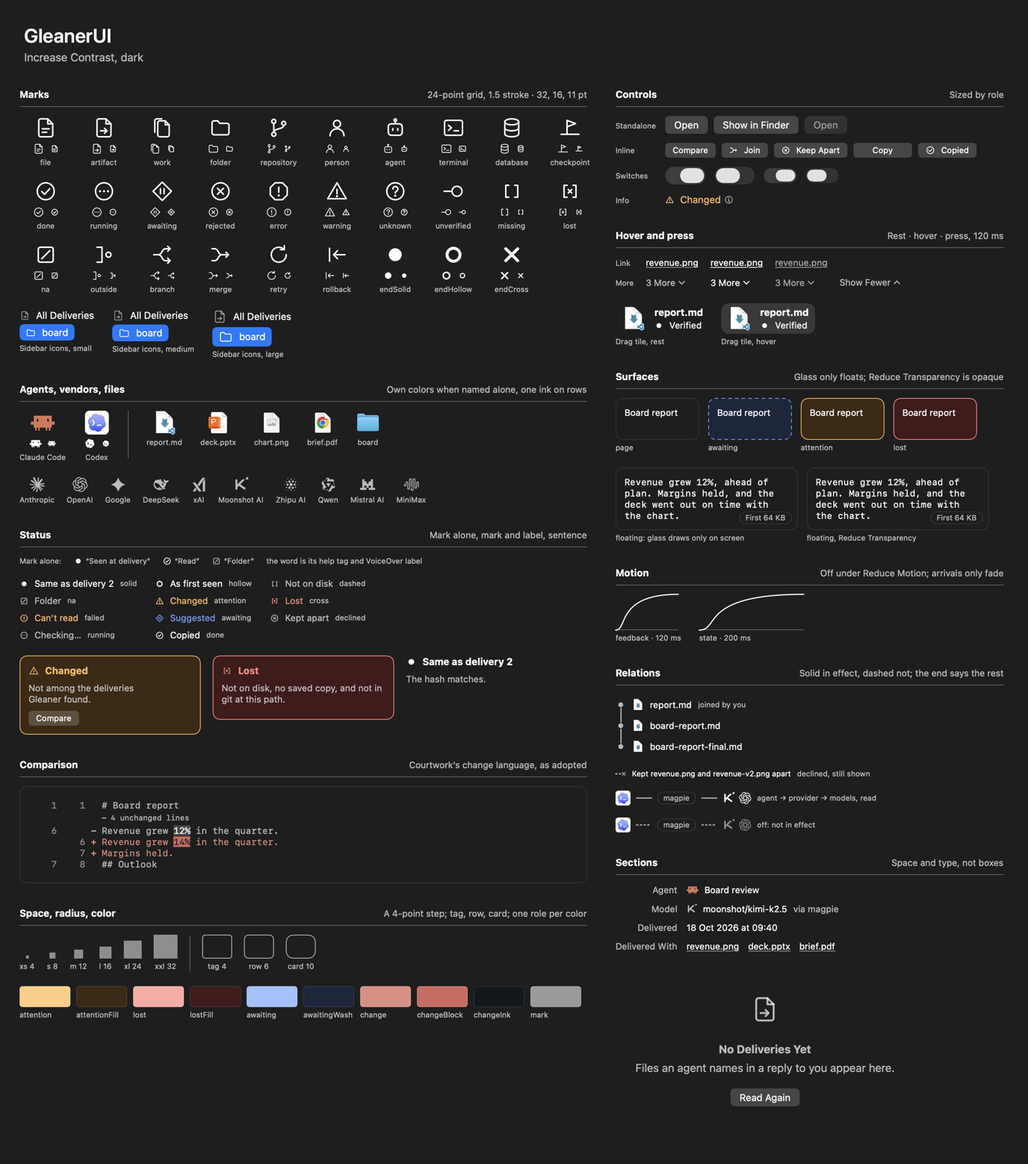
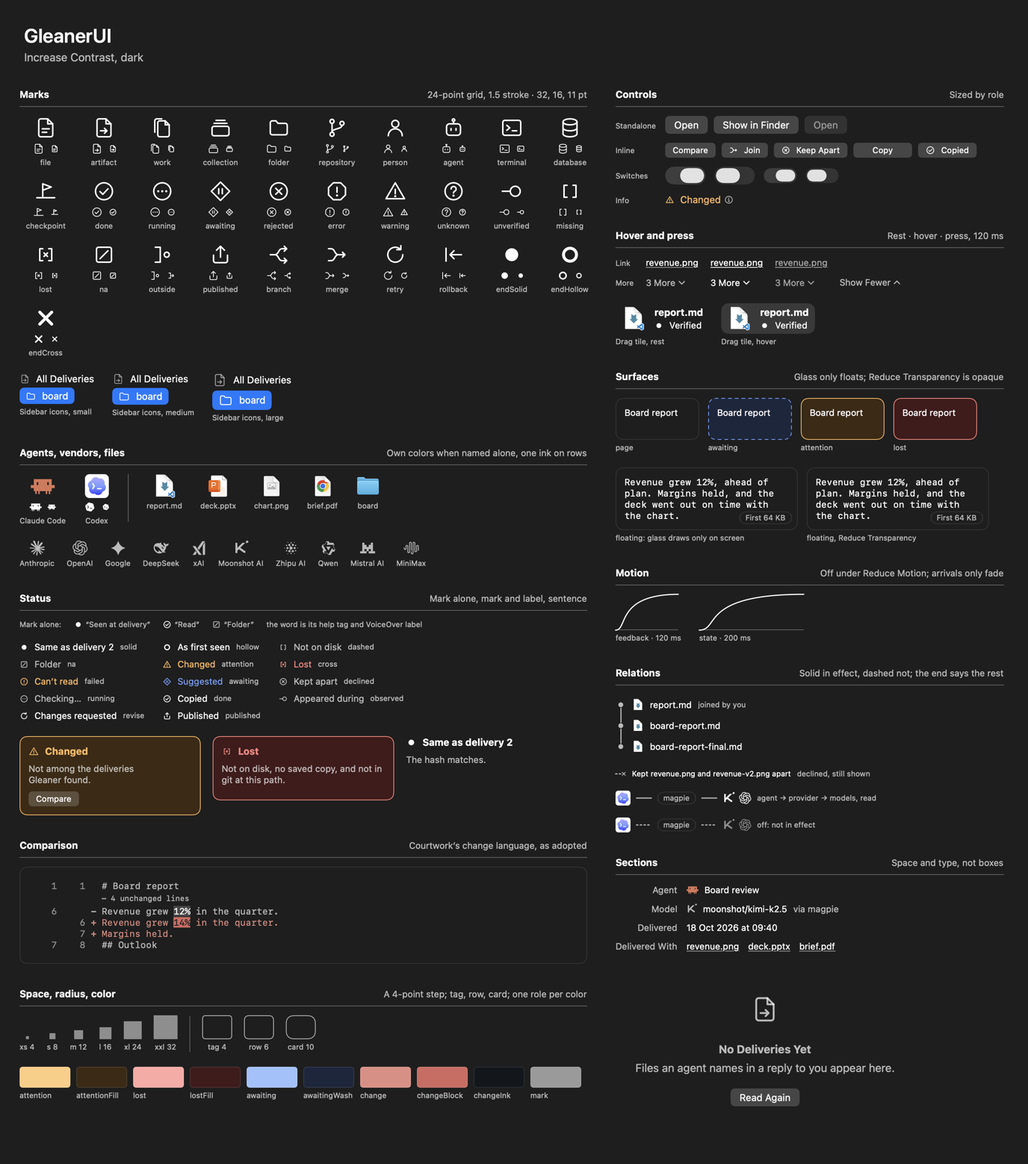
Document the review window: review.md as built, SPEC 5.5, marks, gallery
review.md gains The window, as built: the sidebar, naming in place,
dropping and choosing several rows, a collection's list and review page,
its forms and marks, A17 on the page, a work's Review section, To Review,
Observed, kept files' words, what the tour showed and what changed, and
what still needs a person at the window. SPEC 5.5 says how review is
shown; components.md and window-polish.md count the new marks, and the
gallery sheets are drawn again. The changelog, both READMEs, the design
index and capture.md's layer 3 follow.

diff --git a/docs/design/review.md b/docs/design/review.md
@@ -140,10 +140,83 @@ Built on `feat/review`, 2026-10-19. [SPEC §5.5](../SPEC.md) is the contract. Wh
 - **Undo All Corrections** removes units and kept files with the other corrections, and leaves verdicts and published marks, which judge bytes, not how the library is organized.
 - **A work of several files** keeps a verdict made on bytes any of its files had. Files the person hasn't joined share no verdict, even with the same bytes (§5.2).
 - **Reading.** The model takes the size, dates and inode of each work in a unit or with a verdict when it organizes the library, and remembers the bytes read this session, on select or by a verdict, while the file is still as read. To Review and each work's states draw from these and read nothing.
-- **The window** is the next layer: nothing here is listed or drawn yet, though Sources › Corrections words every new decision.
+- **The window** came next: [The window, as built](#the-window-as-built).
 
 Checked: `swift test`.
 - `WorkUnitTests`: nesting one level, natural order, membership by the latest decision and undo back to the one before, a work of several files, a work from another project moved with it and out again, rename, delete and undo, taking back a made unit, Undo All, a removed project, a unit following its project shown inside another, another connection to the library.
 - `KeepTests`: a kept file's one revision as observed and undone back to a candidate; its first read while as observed, at delivery and first seen later, and not when changed since; adding an observed file to a unit; a reply naming it later; a reread and a relaunch; no bytes read by keeping.
 - `ReviewTests`: a verdict on the bytes read; a rewrite, a rollback to approved bytes, a change of dates alone, a copy keeping size and dates (A16, A18); not as shown, gone, a folder and unreadable (A17, A20); history and undo; a work of several files; the four states as a matrix (A22); To Review's contents and grouping; no bytes read but for a verdict; another connection, a reread and Undo All.
 - `ReviewingTests`: the model's decisions and their words in Sources › Corrections, verdicts and To Review through a relaunch and a selection, a file changed since shown, and every decision through a reread and a relaunch.
+
+## The window, as built
+
+Built on `feat/review`, 2026-10-19, over the core. [SPEC §5.5](../SPEC.md) gains how it is shown. Where the window settles what this chapter left open, or departs from it:
+
+**Sidebar**
+- **To Review** sits under All Deliveries, counted as Mail counts unread mail.
+- **A project with collections** opens on them by disclosure, and each collection on those inside it. A collection's badge counts its works and those inside it.
+- **New Collection** is named in place, in the sidebar, as Finder names a new folder: Return or leaving the field keeps the name, Escape and an empty name make nothing. It is in a project's menu, in a collection's (inside it; beside it for one already inside another, since collections nest one level deep), and in the File menu (⇧⌘N). Made for rows the person chose, it takes them; made for nothing, it opens.
+- **Dropping rows.** A row carries its work, for a collection, as a type only Gleaner reads (`app.gleaner.work`, declared by the app bundle), beside what it hands another app. A row with nothing to hand over now starts a drag too: another app is offered nothing, so no drop there fails. Dragging one of several chosen rows brings all of them, as Finder does.
+
+**Choosing several.** Lists take ⌘- and ⇧-clicks. The detail then says how many, with Add to Collection and Remove from Collection; Open, Quick Look and ⌘C act on the one shown.
+
+**A collection's content column**
+- **Its head** is a row of its own, naming it, its counts, what waits, and where it is (the collection it is inside, its project). The head's row shows the review page; so does a row of a collection inside it, while the window stays where it is. A work's row shows the work's detail.
+- **Keys.** Return opens a collection chosen inside, and Delete takes the chosen works out.
+- **Empty**, it offers Add Works…, the project's works in no collection.
+
+**The review page**
+- **What it shows.** The collection's own works. The collections inside it are rows at the top, each showing its own page, so Review All acts only on what the page drew.
+- **Review All** gives each work drawn a verdict on the bytes there now: those already given that verdict on these bytes are skipped, as are folders and files gone. Other Files count once opened.
+- **The forms**, all the platform's:
+  - video: AVKit's player, its floating controls, at its own aspect up to 420 points tall;
+  - audio: the same player with its inline controls, as a row;
+  - images: ImageIO, at their own aspects, 220 points tall, side by side and wrapping; AppKit reads what ImageIO doesn't (SVG);
+  - Markdown and text: as the preview pane draws them, from the file; anything else a person opens, Quick Look;
+  - models, builds and folders: the file's own icon.
+- **Same stem.** The file drawn is the first a person looks at: a video before an image, an image before a document, a document before audio, else the first in list order. The others are named beside it, each with its own states and actions, and audio beside it plays in its own row. A file a program reads goes under Other Files even when it shares the stem (`ep01.inputs.json`): the page is for looking, and Other Files is where the design puts what a program reads.
+- **Marks.** Generated is the agent's mark for a reply or a folder, the observed mark for a kept file. On this Mac shows nothing while the file is there. Reviewed is the check, the open arrow or the crossed circle alone; "To review" in the accent, and "May have changed since review" or "Changed since review" in amber. Published is the tray alone, with words only when its bytes may have changed or did. Each has its sentence in the help tag, and all four are read to VoiceOver with the name.
+- **As shown (A17).** Each item takes its file's size, dates and inode as it is drawn, and a verdict binds only to the file still so. A refusal is said at the top of the page, with Look Again, which draws every item again from disk.
+
+**A work's detail** has its Review section after Information:
+- its collection, with Remove, or Add to Collection;
+- Reviewed, once it is in a collection or has a verdict, and Published, once it has a mark: a state as it should be says nothing;
+- every verdict and mark on any of its files, newest first, each with its file, time, hash, note or place, and Undo.
+
+Review and Mark Published act only while the detail shows the file's current bytes: the newest delivery, still on disk, or the current file chosen to hand over. A verdict binds to the bytes shown.
+
+**To Review** lists what waits by collection, named with the one it is inside and its project, then by project; each name leads there. A work reviewed there stays shown until the person moves on, as Mail keeps a message read in Unread.
+
+**Observed** sits after a project's folders, in a project something was handed over in: one whose sessions were only observed isn't listed yet, as the core lists projects. Each file is under the session it was last observed during (a file two sessions observed, under the newer), folded as Listing folds them; a session opens where works open, so it is closed in a repository. A row says Appeared or Changed and its folder: the session is said once, by its group, and each session's full sentence is in the help tag. It has Keep, and a menu with Add to Collection and Not From This Session; a folded row keeps or adds all of its files.
+
+**A kept file** is named as kept wherever a delivery would be named: "Kept file", "Kept by you, observed during …", "Seen as observed", "Kept, not read". No label calls it a delivery, or listed with a folder.
+
+**Corrections** lists an observed file kept to go in a collection as one line: "Kept and added cover.png to Episode 3, observed during Series covers". Collection decisions carry the collection's mark there.
+
+**Undo and VoiceOver.** Every decision goes on Edit › Undo under its name, and is announced in the words Corrections lists it by. A collection made for chosen rows is two steps on Edit › Undo: the adding, then the making.
+
+**Checked**
+- **`swift test`:** 343 tests pass; the gallery and the three tours run only with a folder for their pictures.
+  - `WordingTests` says each new state as itself and never as another: the Reviewed states in a collection and out of one, the Published states, what waits, On this Mac with unreadable never gone (A20), how a file came, a kept revision never a delivery, collections' counts and names, and a refused verdict's reasons.
+  - `ReviewingTests` adds: a collection as a place with its page, its works and those inside it, deleted while shown; naming in place, with what was chosen; several rows chosen, added and dragged together; Observed by session, detached and kept; what waits and where each work is, To Review keeping the work shown, and a file gone after its verdict (A22).
+- **The tour.** `GLEANER_TOUR=<folder> swift test --filter TourTests/walkTheReviewOfASeries` writes real videos, builds a synthetic series of three episodes and a compilation (`scripts/acceptance-home.py <home> review`, then `review-revise`), and draws fifteen pictures:
+  - the outline, whole, with Observed;
+  - the series' list and page, naming a collection in place, two works chosen;
+  - episode 1's page in the window and whole, before and after its verdicts;
+  - To Review after the recut, and with the recut chosen;
+  - the recut's detail and the script's, with their Review sections and history;
+  - the note sheet, Corrections, and episode 2's page in dark.
+
+  **What the pictures showed, and what changed:**
+  - Corrections said a keep and an add made together twice, file by file; they are now one line.
+  - Every work's detail said None, Not reviewed and Not published; nothing is said now until something is decided.
+  - An observed file's row ran its other sessions together until they were cut off; they moved to its help tag.
+  - A collection chosen in a list wasn't selected in it: the list's selection now names the collection whose page is shown.
+- **Not checked:**
+  - a video's frames, and the players' glass: drawn off screen, a video is black and AVKit's glass capsule is white;
+  - a real drag onto the sidebar, and its highlight;
+  - naming in place from the keyboard;
+  - VoiceOver listening, and full keyboard access through a page;
+  - Increase Contrast and large text.
+
+  These need a person at the window.

diff --git a/CHANGELOG.md b/CHANGELOG.md
@@ -43,7 +43,7 @@ The first release: a macOS 15 app that lists the files Claude Code and Codex nam
 
 ### Hand off
 
-- Drags the file at the top of the detail, or a list row, as a copy whose hash was checked after copying; ⌘C copies it as a file and ⌘O opens it. A row hands over the version the detail would, a delivered folder's row drags the folder as a copy, and a row with nothing to hand over starts no drag. Copies of one version prepared at the same time never remove each other. The tile, ⌘C, Open and Quick Look use a prepared copy only while it is the very file Gleaner hashed, and make it again when another app wrote to, replaced or removed it; the text preview shows the text that was verified.
+- Drags the file at the top of the detail, or a list row, as a copy whose hash was checked after copying; ⌘C copies it as a file and ⌘O opens it. A row hands over the version the detail would, a delivered folder's row drags the folder as a copy, and a row with nothing to hand over offers another app nothing (it still drops on a collection). Copies of one version prepared at the same time never remove each other. The tile, ⌘C, Open and Quick Look use a prepared copy only while it is the very file Gleaner hashed, and make it again when another app wrote to, replaced or removed it; the text preview shows the text that was verified.
 - Hands over a delivered file by its bytes even when a folder now stands at its path, and a delivered folder only while it is still one.
 - Falls back to the saved copy when the file on disk has changed, and labels the current file "not a found delivery" when no delivered version is left.
 - Says why a version can't be handed over: never seen, never read, a folder, too large to have been saved, a save that failed, or a saved copy no longer in Gleaner's store. Offers only actions that exist, and Check Again wherever it advises checking again.
@@ -56,7 +56,7 @@ The first release: a macOS 15 app that lists the files Claude Code and Codex nam
 - Each conversation read now gets a span, when it was working: from each request to the last reply answering it, so the days between a reply and a conversation resumed later aren't in it. The adapters now give each reply's request time, from the request's record. A conversation also gets a workspace: the git checkout of each folder it worked in, else the folder. A workspace is walked when its conversation's span moves, by names, sizes, dates and file identities only, never contents. The home folder and its Library (but for iCloud Drive and cloud storage), system folders, hidden folders, the agents' logs, Gleaner's own library, dependency caches and folders marked as caches with `CACHEDIR.TAG` are skipped, a skipped or gone folder is named in Sources with why, links and other volumes aren't followed, and a walk stops after 100,000 entries, which Sources reports until the conversation is walked again. A walk cut off by a quit, or whose findings couldn't be written, is made again next run.
 - A file whose creation or modification date falls in a span is recorded as having appeared or changed during that conversation, the first time Gleaner sees it, and never rewritten; another conversation's observation of it is added beside it. A file whose dates were set after its stretch ended, a copy that kept them, say, isn't counted. It shows when the file appeared or changed, not who made it, and no file type or output folder is left out.
 - Observed files are candidates kept beside the deliveries, never deliveries: a delivered file keeps its delivery, and its observation sits next to it, under the name the reply gave it even when the disk spells it in another case. Two corrections join the others, with Undo: a file is not from a conversation, and a file goes with a work, without becoming one of its versions.
-- The model can order a project's files (handed over before observed, what a person opens before what a program reads, newest first), fold a folder crowded with one kind into one row with its count, and show files that share a stem together, claiming nothing. The window lists none of this yet.
+- The model can order a project's files (handed over before observed, what a person opens before what a program reads, newest first), fold a folder crowded with one kind into one row with its count, and show files that share a stem together, claiming nothing. A project's outline lists its works so, and what was observed under Observed (see Review).
 - The extractor version moves to 15: every log is read once more, and each conversation's workspace observed as the disk is now.
 
 ### Hand over a folder's files
@@ -69,13 +69,16 @@ The first release: a macOS 15 app that lists the files Claude Code and Codex nam
 - A project's outline lists a folder's files under their folders, a crowded folder's files of one kind folded into one row; files a reply named never fold. Search finds a folder's file by its name and folder; the reply's words find the folder. A file observed during a conversation and handed over in a folder keeps its observation beside it, and corrections apply to it as to any work.
 - Folders already in a library are listed on the next read; no log is read again. The library loads off the main thread at launch, and a file's first read updates that file alone, in the list and outline already shown: with 20,000 files, a first selection no longer stalls the window for over a second.
 
-### Review, in the model
+### Review
 
 - Collections (work units): made in a project, one inside another one level deep, each work in at most one. Renaming, deleting, adding a work and taking one out are corrections, kept through rereads and relaunches, listed in Sources → Corrections and undone one by one, each back to the decision before it. Deleting a collection deletes those inside it and returns their works to the project; undone, they are back. A work added from another project moves with it.
 - Keep: a file observed during a conversation becomes a work whose one revision is kept by you, observed during it, listed by its size and dates and read when you act on it. Adding an observed file to a collection keeps it. Undone, it is a candidate again.
 - Verdicts (approved, changes requested, rejected, with a note) and published marks (with where) are made on the bytes there then: making one reads the file and records its hash with its size, dates and inode. A file touched, rewritten or replaced since may have changed until it is read, and then has changed, or hasn't; bytes that match a verdict's hash keep it, at any revision; a file gone keeps its verdict as made. A file changed since you were shown it isn't judged. Every verdict stays in the history, each can be undone, and Undo All Corrections leaves them. No state completes another.
 - To Review holds the works in collections with no verdict on their bytes and the works anywhere whose verdict is on other bytes, by collection. It and each work's states come from sizes and dates, never by reading bytes.
-- The window lists none of this yet.
+- The sidebar has To Review, with its count, and each project's collections under it. A new collection is named in place; New Collection is in a project's and a collection's menus and the File menu (⇧⌘N), with Add to Collection, Remove from Collection, Rename and Delete. Rows dropped on a collection go in it, and rows can be chosen several at once.
+- A collection lists the collections inside it, each with its first image as a poster and what waits, then its works. Its review page shows each work in place: a video plays (AVKit), audio plays in a row, images stand side by side at their own aspects, documents render as the preview pane renders them, and what a program reads is under Other Files, closed; files sharing a stem stand together. Each carries its four states as marks, Review (Approve, Request Changes…, Reject…, with a note), Mark Published… and More; Review All acts on what the page shows. A verdict binds only to a file still as it was drawn; otherwise the page says to look again.
+- To Review lists what waits by collection. A work's detail has a Review section: its collection, its verdict and published mark, and its history with Undo. A project's outline lists what sessions were observed doing and no reply handed over under Observed, by session, with Keep, Add to Collection and Not From This Session. A kept file is named as kept, never as a delivery.
+- Every decision is on Edit › Undo and announced to VoiceOver in the words Sources → Corrections lists it by. Two marks are new: a collection's, and published.
 
 ### Keep data local
 

diff --git a/README.md b/README.md
@@ -20,7 +20,7 @@ Gleaner 0.1.0 runs on macOS 15 or later. It is an early release: which files cou
 
 Type what you remember: words from your request, the reply, the file name, or the project. A result matches only when every word appears in one delivery, so words from two different conversations never combine into a match. The result opens on the newest delivery whose own words (your request, the reply, the session title) matched, or on the newest delivery when only the file name or project did, and shows that delivery's date. When you change the search, a result you had switched to another delivery goes back to the one that matched. A file handed over in a folder is found by its name, its folder and its project; the reply's words find the folder.
 
-The sidebar lists All Deliveries, every project, and Sources. A project is the git repository that holds the file, with every worktree folded into it wherever the worktree is kept; outside git it is the folder the agent worked in, marked with a folder instead of a repository's branches. Two projects with the same name also show their parent folder, and a file in a worktree names that worktree. Searching inside a project searches that project. A menu above the results narrows them by kind: Documents, Images, Video & Audio, Web Pages, Code, Data, 3D & CAD, Builds & Archives, Folders, and Other.
+The sidebar lists All Deliveries, To Review, every project with its collections, and Sources. A project is the git repository that holds the file, with every worktree folded into it wherever the worktree is kept; outside git it is the folder the agent worked in, marked with a folder instead of a repository's branches. Two projects with the same name also show their parent folder, and a file in a worktree names that worktree. Searching inside a project searches that project. A menu above the results narrows them by kind: Documents, Images, Video & Audio, Web Pages, Code, Data, 3D & CAD, Builds & Archives, Folders, and Other.
 
 The detail pane is laid out as Finder's preview pane: the file itself, with its own icon, to drag and open, a line saying exactly which bytes it carries and whether Gleaner verified them, then the preview, then **Information**: your request, the reply that delivered the file, the agent (by its own mark) and conversation, when, what is on disk now, and where. Markdown is rendered in place; most other formats use Quick Look. Under **Versions**, each time an agent delivered the same path is one line; picking a line switches the file, its preview and the hand-off together. A state that is as it should be shows only its mark; one that needs a look says so in a word or two, with the full sentence behind ⓘ. **More Info** keeps the path, hashes and session log. **Compare** shows what changed between two deliveries, or between a delivery and the file on disk now: a line diff for text, side by side for images, size and hash for anything else. When two versions differ only in line endings or the final newline, Compare says so.
 
@@ -31,6 +31,14 @@ A project opens on its outline: what it is and why, the works delivered last, th
 **Project**, in a work's detail, says why the work is in its project (the repository it is in, the repository its agent worked in, or the folder outside git), and offers **Move to Project…**, to another project or a new one of your own, and **Join With Another File…**. A derived project can be shown inside another from its menu in the sidebar. These decisions change only how Gleaner shows the library, never a file, a delivery or a status; reading the logs again keeps them. **Sources → Corrections** lists each one with Undo, and Undo All.
 
 **Copy Resume Command**, beside the conversation, copies `claude --resume <id>` or `codex resume <id>`, with a `cd` to the folder the conversation started in, to continue it in Terminal. It is offered while the conversation's log and that folder are there; otherwise it says why it can't be resumed. **Delivered With** reaches every file the reply named.
+
+## Review
+
+A **collection** groups works the way you think of them, such as a series and its episodes; one collection can hold others, one level deep. Make one with **New Collection** (⇧⌘N, or a project's menu in the sidebar) and name it in place, then drop rows on it, or use **Add to Collection** in a row's menu, for several rows at once too. Files stay where they are; Rename, Delete and every other decision is on Edit › Undo and listed in Sources → Corrections.
+
+A collection's **review page** shows each of its works in place, from the file on disk: a video plays, audio plays in a row, images stand side by side at their own aspects, a document is rendered, and what a program reads is under Other Files. Files that share a stem in a folder stand together. Each carries four states, each on its own: how it came (named in a reply, handed over in a folder, or kept by you), whether it is on this Mac, your verdict, and whether you marked it published. **Review** approves, requests changes or rejects, with a note; **Mark Published…** records where. A verdict holds for the exact bytes Gleaner hashed when you made it: when the file changes it stays in the history, and the work says it may have changed, then changed, once read. **To Review** lists what is left: works in collections with no verdict on their bytes, and works whose verdict is on other bytes.
+
+Files that appeared or changed while a conversation worked, and that no reply handed over, are listed under **Observed** at the end of a project's outline, by conversation. **Keep** adds one to the library as you found it; **Add to Collection** keeps it in a collection; **Not From This Session** detaches it.
 
 ## Status words
 
@@ -160,7 +168,7 @@ swift test                      # fixture tests
 
 - `Sources/GleanerCore`: provider adapters (Claude Code, Codex), mention extraction, locator, redaction, the registry (SQLite), the content store (saved copies, verified hand-off copies), the indexer, observations of each session's workspace (`Observations.swift`), the files of delivered folders (`Bundles.swift`), how a list of them is ordered (`Listing.swift`), work units, kept files and review (`WorkUnits.swift`, `Keeping.swift`, `Review.swift`), the log watcher, and the status logic (`Library.swift`).
 - `Sources/GleanerUI`: the component library the window draws with: marks, status, surfaces, controls and motion, after [docs/design/components.md](docs/design/components.md). SwiftUI and AppKit only.
-- `Sources/Gleaner`: the macOS app (SwiftUI and AppKit, Quick Look).
+- `Sources/Gleaner`: the macOS app (SwiftUI and AppKit, Quick Look, AVKit).
 - `Sources/gleaner-spike`: Spike A, read-only extraction over local logs that writes a labeling sheet.
 - `Tests/GleanerCoreTests`: fixture tests built from sanitized record shapes, the library flow (concurrent edits, deleted worktrees, rollback, backfill, verified staging), observations and delivered folders in several kinds of work, and work units, kept files and verdicts bound to bytes.
 - `Tests/GleanerUITests`: the marks, the tokens, and the gallery of every component (`GLEANER_GALLERY=<folder> swift test --filter GalleryTests`).

diff --git a/docs/SPEC.md b/docs/SPEC.md
@@ -38,7 +38,7 @@ In v0.1:
 - Observations of what appeared or changed in each session's workspace during its span, kept beside the deliveries, never as deliveries (§5.3).
 - The files of a delivered folder, each delivered by the reply that named the folder, listed by metadata and read when the person acts on one (§5.4).
 - Content-addressed snapshots under a size policy.
-- What only the person adds (§5.5): work units, files they keep from what a session was observed doing, and verdicts and published marks bound to the bytes they were made on, with the queue of what is left to review. The window lists them in the next layer.
+- What only the person adds (§5.5): work units, files they keep from what a session was observed doing, and verdicts and published marks bound to the bytes they were made on, with the queue of what is left to review, each listed in the window.
 - Library window: projects and the works in each, search, preview (Quick Look, text, Markdown), compare versions, reveal in Finder, copy path, drag out, and a Sources page for what Gleaner reads, the person's corrections and what it keeps (§5.1a).
 
 Deferred: comments, timecoded notes, MCP or `artifact://` resolvers, agent-initiated submission, remote-agent handoff, cross-device sync, cloud deliveries (ChatGPT, claude.ai), automatic HTML dependency bundling, Claude Code hooks as a capture path, runtime extensions and model reasoning (§14), release groups (§15).
@@ -150,6 +150,7 @@ What only the person can add (`docs/design/review.md`): which works go together,
 - **Four states, kept apart.** Generated (named in a reply, handed over in a folder, or kept, observed during a session), On this Mac (the locator, §5), Reviewed and Published, each shown for a work's current file. None completes another: not a delivery, a version, a saved copy, a push, a file played to its end, nor an agent's claim (§6.2). A published file need not be reviewed, a reviewed one need not be on this Mac, and a delivered one need not be reviewed.
 - **To Review.** The works in units with no verdict on their current bytes, and the works anywhere whose newest verdict was made on other bytes or may have been, grouped by unit in the order the sidebar lists them, then by project. A work nobody put in a unit and nobody reviewed is never in it, nor a folder, which has no bytes to judge.
 - **Reading.** Units, To Review and each work's states come from sizes and dates, and from bytes read this session while the file is still as read. Bytes are read only when a verdict or mark is made, and when a file is selected, as before (§7).
+- **Shown** (`docs/design/review.md`, The window): To Review with its count, and each project's units under it, in the sidebar. A unit lists the units inside it, then its works; its review page shows each of its works in place, played and rendered from the file on disk, with the four states, and a verdict made there binds only to a file still as it was drawn. A project's outline lists the files that appeared or changed while sessions worked, and that no reply handed over, under Observed, by session, to keep, add to a unit or detach. A work's detail has its verdicts and marks, newest first, each to undo; it makes one only while it shows the file's current bytes. A kept revision is named as kept, never as a delivery.
 
 ## 6. Snapshots and storage
 

diff --git a/docs/design/components.md b/docs/design/components.md
@@ -53,9 +53,9 @@ A state is said in three tiers, each only as far as it is needed:
 2. **The mark and its label** (`StatusLabel`), one to three words, for a state that needs a look.
 3. **The sentence**: why, behind ⓘ, or inline in a `StatusPanel` where the person must decide what to do.
 
-`Mark` names the twelve states. Each has a silhouette that stays distinct in grey, and a color that only repeats it. "Not on disk" is brackets around nothing; "lost" puts a cross between them (`Glyph.lost`, Gleaner's own), so the two never differ by color alone. "Observed" is the kit's unverified mark, a line to an open circle: a file seen on the disk during a session, never handed over ([capture.md](capture.md)).
+`Mark` names the fourteen states. Each has a silhouette that stays distinct in grey, and a color that only repeats it. "Not on disk" is brackets around nothing; "lost" puts a cross between them (`Glyph.lost`, Gleaner's own), so the two never differ by color alone. "Observed" is the kit's unverified mark, a line to an open circle: a file seen on the disk during a session, never handed over ([capture.md](capture.md)). The person's verdicts reuse two marks and add one ([review.md](review.md)): done (the check) also says approved, declined (the crossed circle) rejected, and revise, the kit's open arrow, changes requested. Published is Gleaner's own, an arrow leaving a tray (`Glyph.published`). A collection, the person's group of works, has its own object mark, a card with the edges of two more behind it (`Glyph.collection`), so it is never taken for a folder on disk.
 
-- **Ink:** confirmed (solid), not confirmed (hollow) and done.
+- **Ink:** confirmed (solid), not confirmed (hollow), done, revise and published.
 - **Secondary:** no value, doesn't apply, declined, running and observed.
 - **Amber:** needs a look and couldn't read.
 - **Red:** gone.

diff --git a/docs/design/window-polish.md b/docs/design/window-polish.md
@@ -68,7 +68,7 @@ Files are drawn with the icon Finder uses for their type (`NSWorkspace.icon(for:
 
 ## Marks
 
-`Sources/GleanerUI/Glyph.swift` (then `Sources/Gleaner/Glyphs.swift`) draws Gleaner's marks natively from SVG path data. Each is on the kit's 24-point grid, with a 1.5 stroke that scales with the size and never draws under 1 point, round caps and joins. The renderer reads SVG path syntax, elliptical arcs included, stops at numbers after a close rather than repeating it, and takes any whitespace between numbers. `MarkTests` (in `GleanerUITests`, then `GlyphTests`) checks that every mark and agent mark draws inside its grid. Twenty-six marks are copied from the kit's `glyphs.svg`. Two are Gleaner's own, drawn to the same grid (a third, `lost`, came with the component library, [components.md](components.md)):
+`Sources/GleanerUI/Glyph.swift` (then `Sources/Gleaner/Glyphs.swift`) draws Gleaner's marks natively from SVG path data. Each is on the kit's 24-point grid, with a 1.5 stroke that scales with the size and never draws under 1 point, round caps and joins. The renderer reads SVG path syntax, elliptical arcs included, stops at numbers after a close rather than repeating it, and takes any whitespace between numbers. `MarkTests` (in `GleanerUITests`, then `GlyphTests`) checks that every mark and agent mark draws inside its grid. Twenty-six marks are copied from the kit's `glyphs.svg`. Two are Gleaner's own, drawn to the same grid (a third, `lost`, came with the component library, [components.md](components.md), and `collection` and `published` with reviewing, [review.md](review.md)):
 - **repository**: three nodes and a branch, for git projects;
 - **work**: a file with another behind it, for one work in several files.
 

diff --git a/docs/design/README.md b/docs/design/README.md
@@ -6,7 +6,7 @@
 
 **Capture from the session (2026-10-19):** [capture](capture.md) takes what every session gives (its requests and replies, its workspace and time span) and finds on the disk what appeared or changed during it, kept as observations beside the deliveries, never as deliveries. Layered: observations, the window, live capture, written-by evidence, acceptance.
 
-**Reviewing (2026-10-19):** [review](review.md) is capture's layer 3: work units the person makes (collections in the window, a series and its episodes), keeping a file observed during a session, verdicts and published marks bound to the exact bytes they were made on, the four states kept apart, and To Review, the queue drawn from the person's own acts.
+**Reviewing (2026-10-19):** [review](review.md) is capture's layer 3: work units the person makes (collections in the window, a series and its episodes), keeping a file observed during a session, verdicts and published marks bound to the exact bytes they were made on, the four states kept apart, and To Review, the queue drawn from the person's own acts. The window shows them: To Review and each project's collections in the sidebar, a collection's review page with each work played, heard and shown in place, Observed in a project's outline, and a work's Review section.
 
 Draft reference for Opus, grounded in public source at [`79d724d1228a4b748572958dcbdd22aa6b7da142`](https://github.com/lesPrivilege/gleaner/tree/79d724d1228a4b748572958dcbdd22aa6b7da142), 2026-10-17. These are alternatives for improving an already useful small product, not an adopted architecture or implementation plan.
 

diff --git a/docs/design/capture.md b/docs/design/capture.md
@@ -95,7 +95,7 @@ Each shape an adapter knows keeps a sanitized fixture line from a real log and t
    - Metadata only; bytes are read on the person's action.
    - Tests on synthetic sessions in several kinds of work: a video series, a report, a slide deck, a data analysis, and a code change.
 2. **Bundles.** A reply that hands over a folder hands over what is in it. Its files are listed with "Handed over in" evidence, stronger than "Appeared during", by metadata: each is a delivery of its own file, versioned with that file's other deliveries, whose bytes are read when the person acts on it.
-3. **Work units and the window.** Designed in [review.md](review.md), which settles what follows.
+3. **Work units and the window.** Designed and built in [review.md](review.md), which settles what follows: collections sit in the sidebar, under their project, rather than first in its outline, and candidates under Observed, after its folders.
    - **In a project:** work units first (a series, then its episodes), then what each session handed over and what was observed during it, by folder, with crowded folders folded and stems shown together. Candidates stay under their session until kept.
    - **In a work unit's detail:** its works played, heard and shown in place, each with "Handed over in", "Appeared during" or "Changed during", its versions, and the four states.
    - **Review:** the Reviewed verdict and the Published mark. They, hand-on and comparison read the bytes then. The review queue is a saved view of the library (delivered or new revisions awaiting review), not a second library.
